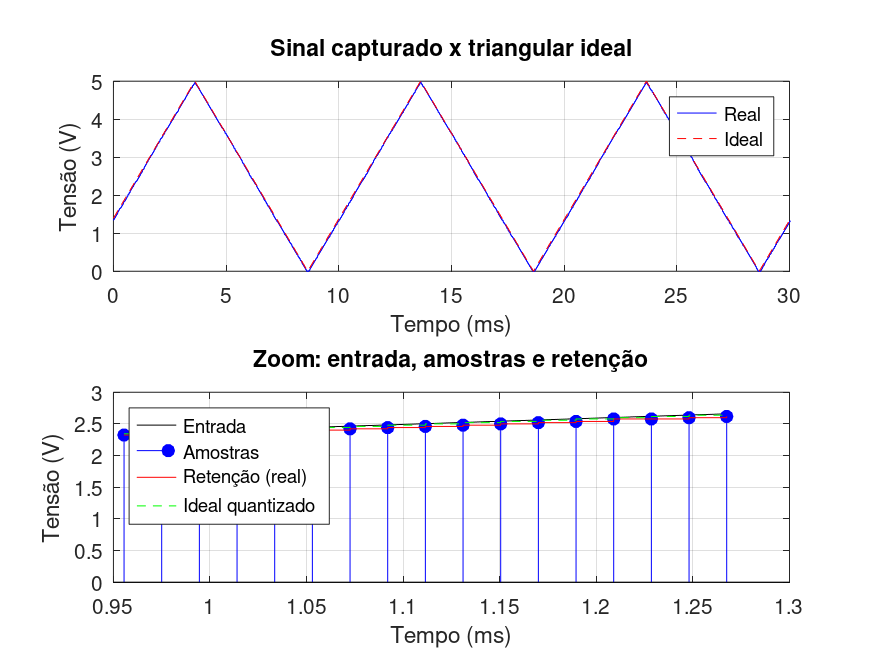
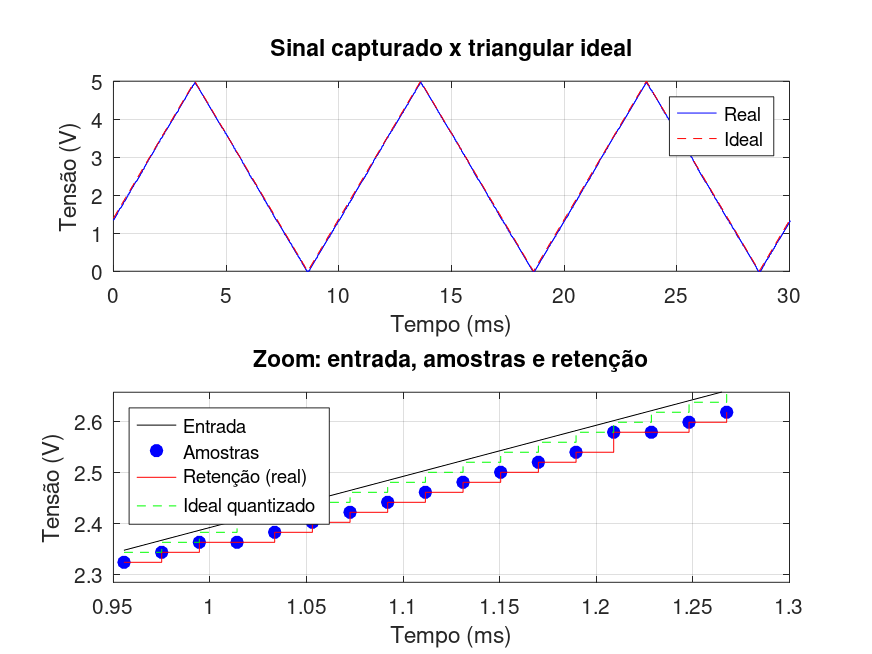
Ajustando para testar amanhã no LAB

Changed region(s): [[0.0929, 0.6116, 0.867, 0.9174], [0.0929, 0.6422, 0.2167, 0.7645], [0.0929, 0.581, 0.1239, 0.6116]]

diff --git a/Problema2.m b/Problema2.m
@@ -2,8 +2,8 @@
 clc;
 clear;
 close all;
-pkg load signal
 pkg load instrument-control
+if ~isempty(mfilename), cd(fileparts(mfilename('fullpath'))); end   % roda na pasta do script
 
 function v = triangular(t, f, fase, vmin, vmax)       % triangular ideal
   fr = mod(f*t + fase, 1);
@@ -21,31 +21,37 @@ function [fb, pb] = ajustar(v, t, fs_, ps_, vmin, vmax) % triangular que melhor 
 end
 
 %% Parâmetros
-MODO      = 'serial';            % 'serial' (Arduino) ou 'arquivo' (csv salvo)
-PORTA     = 'COM5';               % ver em Ferramentas > Porta na IDE do Arduino
+MODO      = 'serial';             % 'serial' (Arduino) ou 'arquivo' (csv salvo)
+%PORTA     = 'COM5';              % WINDOWS - Abre a porta serial que esta no microcontrolador
+PORTA     = "/dev/ttyUSB0";       % LINUX - Abre a porta serial que esta no microcontrolador
 ARQUIVO   = 'captura.csv';
 FS        = 16e6/(8*(38+1));      % fs nominal: OCR1A = 38 -> 51 282 SPS
 F_GERADOR = 100;                  % frequência do gerador (Hz)
 VREF      = 5.0;                  % AVcc medido
-VIN_MIN   = 0.0;  VIN_MAX = 5.0;  % extremos da triangular (osciloscópio)
+VIN_MIN   = 0.0;                  % extremos da triangular (osciloscópio)
+VIN_MAX = 5.0;
 Q         = VREF/256;             % degrau de quantização (8 bits)
 
 %% 1) Recepção dos dados (requisitos 3 e 4)
 if strcmp(MODO, 'serial')
-  s = serialport(PORTA, 2000000);
-  pause(2.5);                                     % Arduino reinicia, captura e envia
-  buf = [];
-  ult = tic;
-  while toc(ult) < 0.5 || isempty(buf)            % lê até parar de chegar dado
-    if s.NumBytesAvailable > 0
-      buf = [buf; read(s, s.NumBytesAvailable, 'uint8')(:)];
-      ult = tic;
-    end
+  s1 = serial(PORTA);                 % abre a porta serial do microcontrolador
+  set(s1,'baudrate',2000000);         % velocidade de transmissão 2 Mbps (igual ao .ino)
+  set(s1,'bytesize',8);               % 8 bits de dados
+  set(s1,'parity','n');               % sem paridade
+  set(s1,'stopbits',1);               % 1 bit de parada
+  set(s1,'timeout',10);               % 1 s sem dados = fim da transmissão (décimos de s)
+  pause(2);                           % Arduino reinicia, captura e envia
+  raw = [];                           % dados crus recebidos pela USB
+  while true
+    data = fread(s1, 4096);           % lê em blocos até parar de chegar dado
+    if isempty(data), break; end
+    raw = [raw; data(:)];
   end
-  clear s;
-  c = str2double(strsplit(strtrim(char(buf')), "\n"))';
-  c = c(~isnan(c));                               % remove linhas vazias
-  csvwrite(ARQUIVO, c);
+  fclose(s1);                         % fecha a porta de comunicação
+  c = str2double(strsplit(strtrim(char(raw')), "\n"))';   % texto -> números
+  c = c(~isnan(c));                   % remove a linha vazia inicial
+  printf('Amostras recebidas: %d\n', numel(c));
+  csvwrite(ARQUIVO, c);               % guarda a captura
 else
   c = csvread(ARQUIVO);
 end
@@ -76,9 +82,10 @@ subplot(2,1,2);                                   % zoom: entrada, amostras e re
 j = find(c_id >= 128, 1) + (-8:8);
 plot(t(j)*1e3, v_id(j), 'k');
 hold on;
-stem(t(j)*1e3, c(j)*Q, 'b', 'filled');
+plot(t(j)*1e3, c(j)*Q, 'bo', 'markerfacecolor', 'b');   % amostras (antes era o stem)
 stairs(t(j)*1e3, c(j)*Q, 'r');
 stairs(t(j)*1e3, c_id(j)*Q, 'g--');
+ylim([min(c(j))-2, max(c(j))+2]*Q);                     % nova: aproxima nos degraus
 grid on; xlabel('Tempo (ms)');
 ylabel('Tensão (V)');
 title('Zoom: entrada, amostras e retenção');
@@ -145,18 +152,18 @@ print(4, 'fig4_dnl_inl.png', '-dpng', '-r150');
 
 figure(5);                                        % curva de transferência: início e fim
 subplot(1,2,1);
-stairs([0; T(1:8)], 0:8, 'b');
+stairs([0; T(1:8)], (0:8)', 'b');
 hold on;
-stairs((0:8)*Q, 0:8, 'r--');
+stairs((0:8)'*Q, (0:8)', 'r--');
 grid on;
 xlabel('Entrada (V)');
 ylabel('Código');
 title(sprintf('Offset: %.2f LSB', offset));
 legend('Real', 'Ideal', 'location', 'northwest');
 subplot(1,2,2);
-stairs(T(247:255), 247:255, 'b');
+stairs(T(247:255), (247:255)', 'b');
 hold on;
-stairs((247:255)*Q, 247:255, 'r--');
+stairs((247:255)'*Q, (247:255)', 'r--');
 grid on;
 xlabel('Entrada (V)');
 title(sprintf('Ganho: %.2f%%', ganho));

diff --git a/MI_PDS_adc_AtMega2560.m b/MI_PDS_adc_AtMega2560.m
@@ -15,13 +15,14 @@ pkg load instrument-control		%biblioteca para comunicação serial
 
 %%%%%%%%%%%%%%%%%%% ALOCAÇÃO DE VARIÁVEIS %%%%%%%%%%%%%%%%%%%%%%%%%%%%%%%%%%%%%%
 MAX_RESULTS=2560;
-fs=50000;    % Aqui ajusta a frequência de amostragem usada no processo na ADC
+fs=51282;    % Aqui ajusta a frequência de amostragem usada no processo na ADC
 amostras = 1000;  % Quantidade a amostras que irá usar para visualizar na tela
 raw = [];				 % variavel para armazenar os dados cru recebido pela USB (raw)
 
 %%%%%%%%%%%%%%%%%%% ABERTURA DA PORTA SERIAL %%%%%%%%%%%%%%%%%%%%%%%%%%%%%%%%%%%
-s1 = serial("COM3"); 	    		%Abre a porta serial que esta no microcontrolador
-set(s1,'baudrate',115200);		%velocidade de transmissão 2Mbps
+s1 = serial("/dev/ttyUSB0"); 	    		% LINUX - Abre a porta serial que esta no microcontrolador
+%s1 = serial("COM3"); 	    		      % WINDOWS - Abre a porta serial que esta no microcontrolador
+set(s1,'baudrate',2000000);		%velocidade de transmissão 2Mbps
 set(s1,'bytesize',8); 			  %8 bits de dados
 set(s1,'parity','n'); 			  %sem paridade ('y' 'n')
 set(s1,'stopbits',1); 			  %1 bit de parada (1 ou 2)
@@ -51,7 +52,7 @@ tic;							    %captura do tempo inicial
   time=[(0:1:length(d)-1)/fs];  %tamanhos do dominio normalizado
 
   subplot(3,1,1);           %plotando as figuras
-  plot(time,d*5/1023)   %plota as amostras interpoladas
+  plot(time,d*5/256)   %plota as amostras interpoladas
   xlabel('t(s)');
   title('Sinal gerado x(t)');
   subplot(3,1,2);
